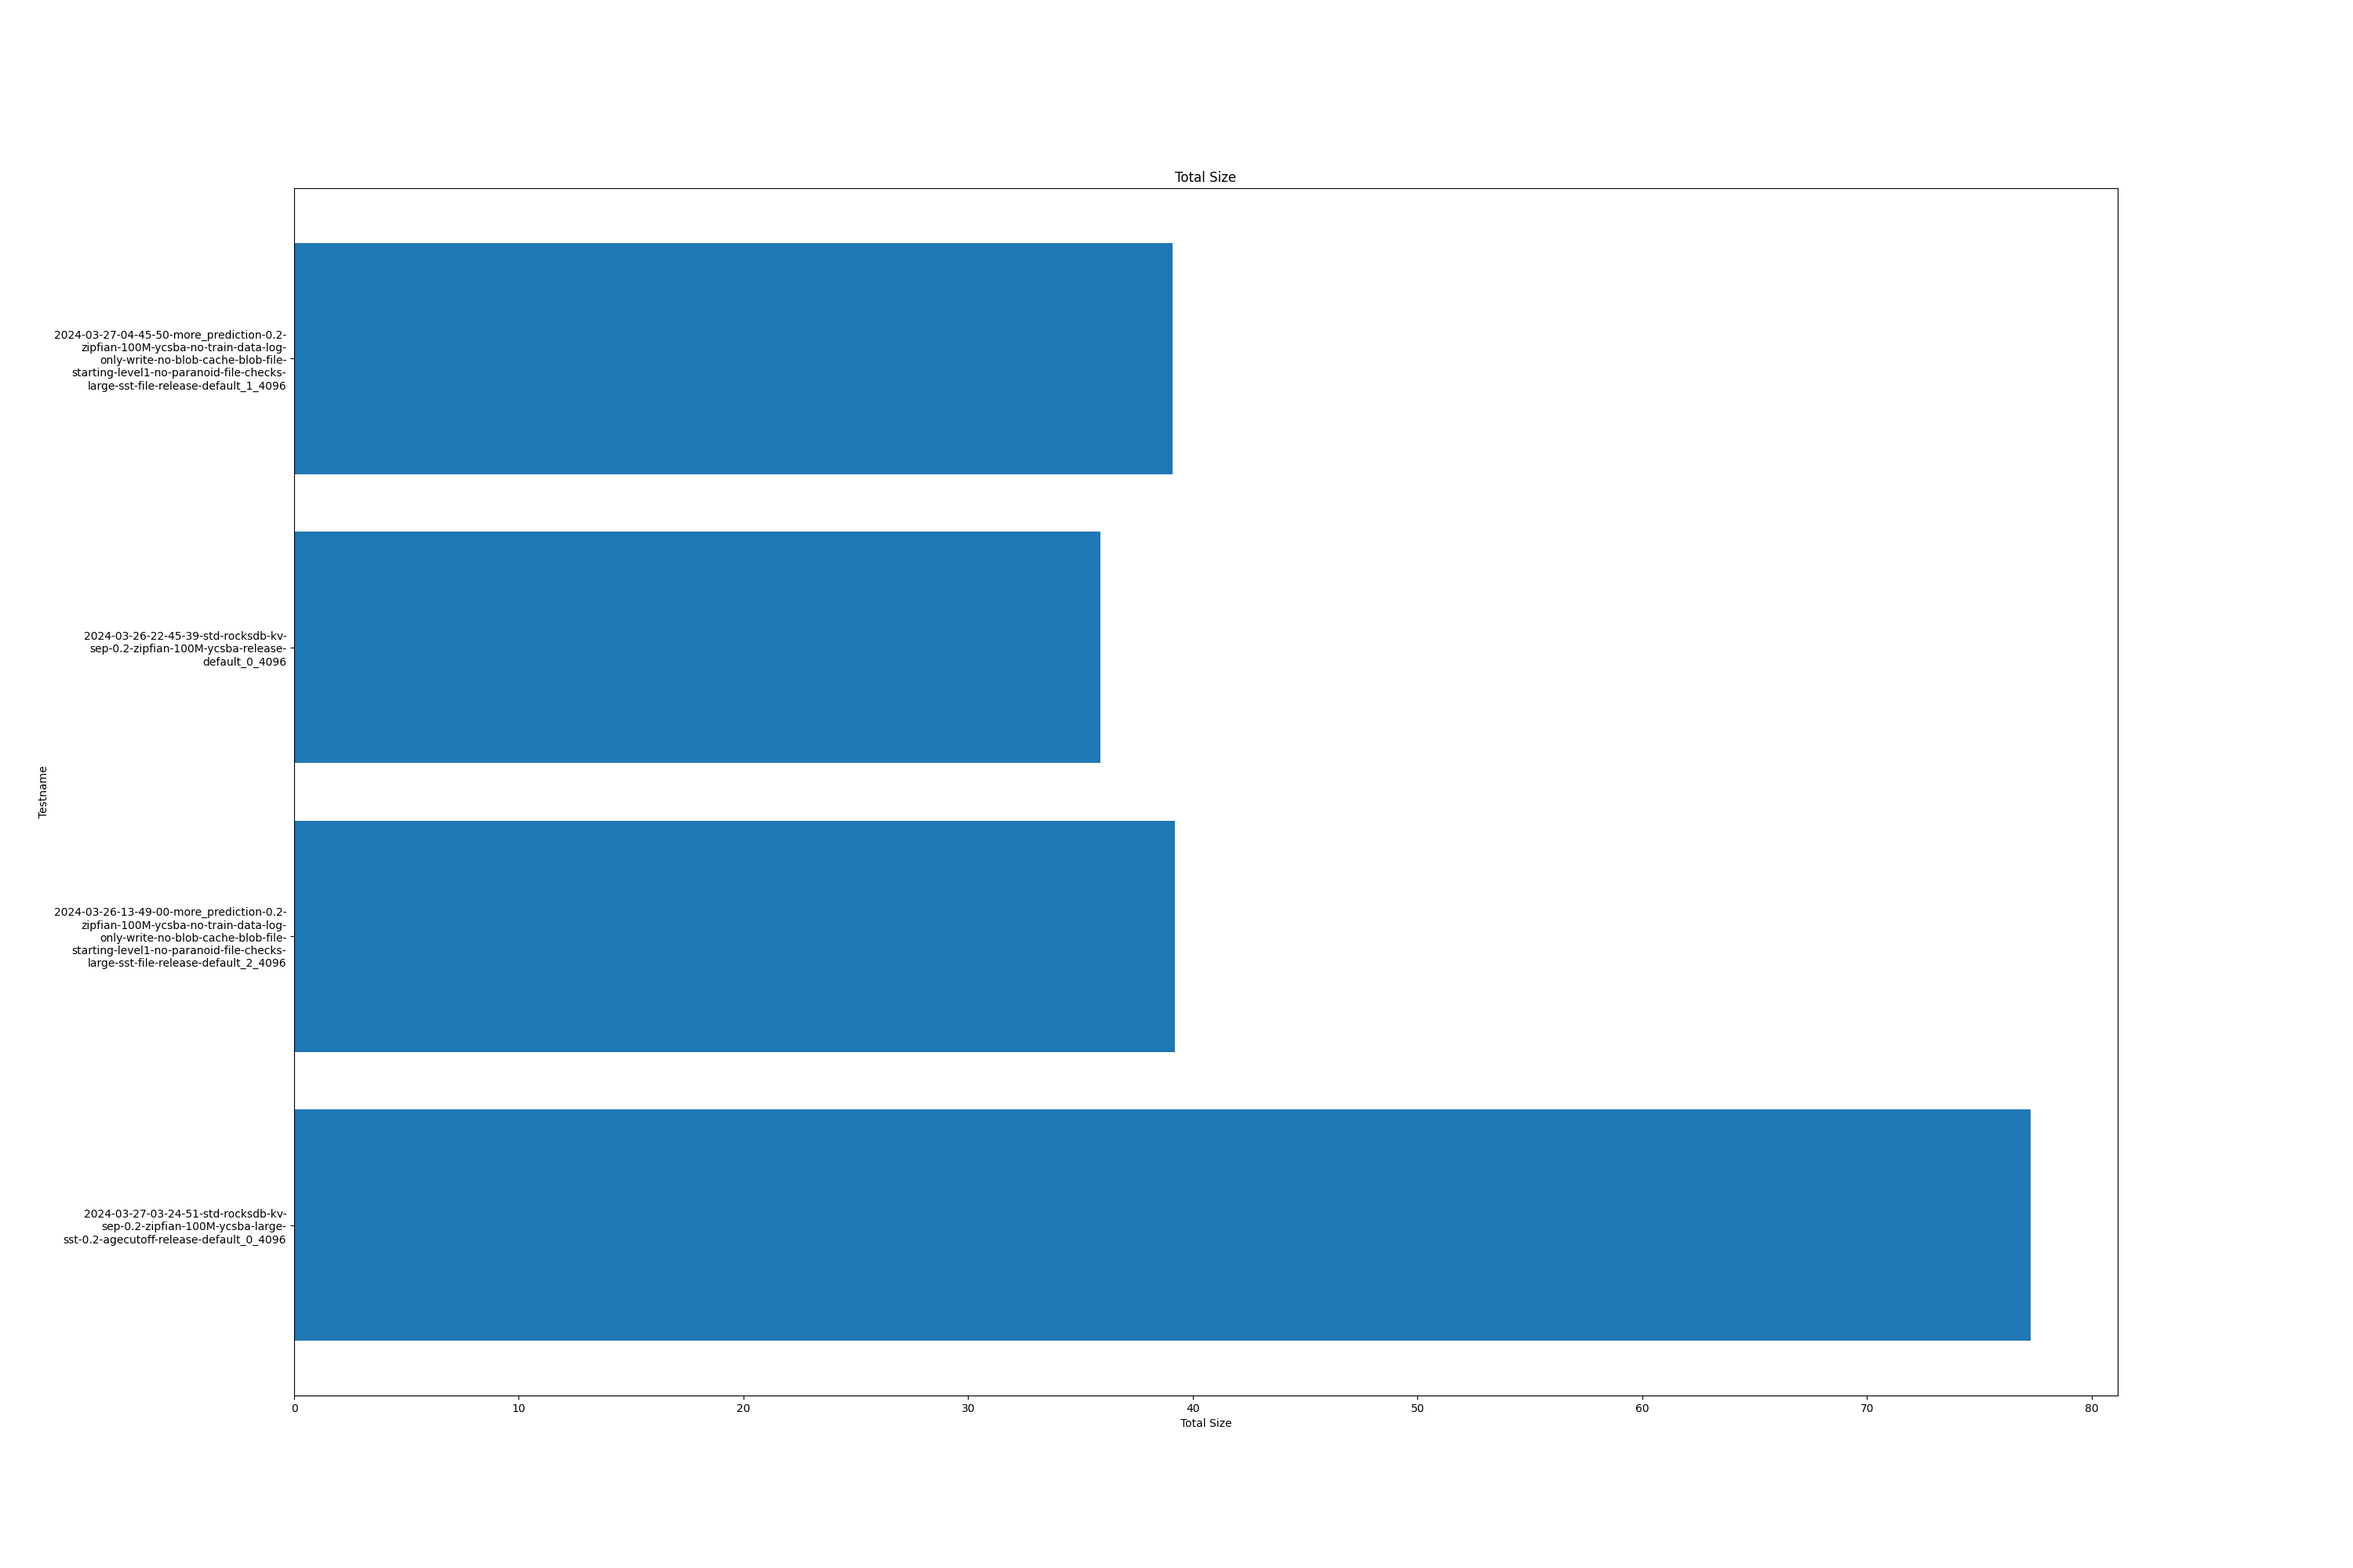
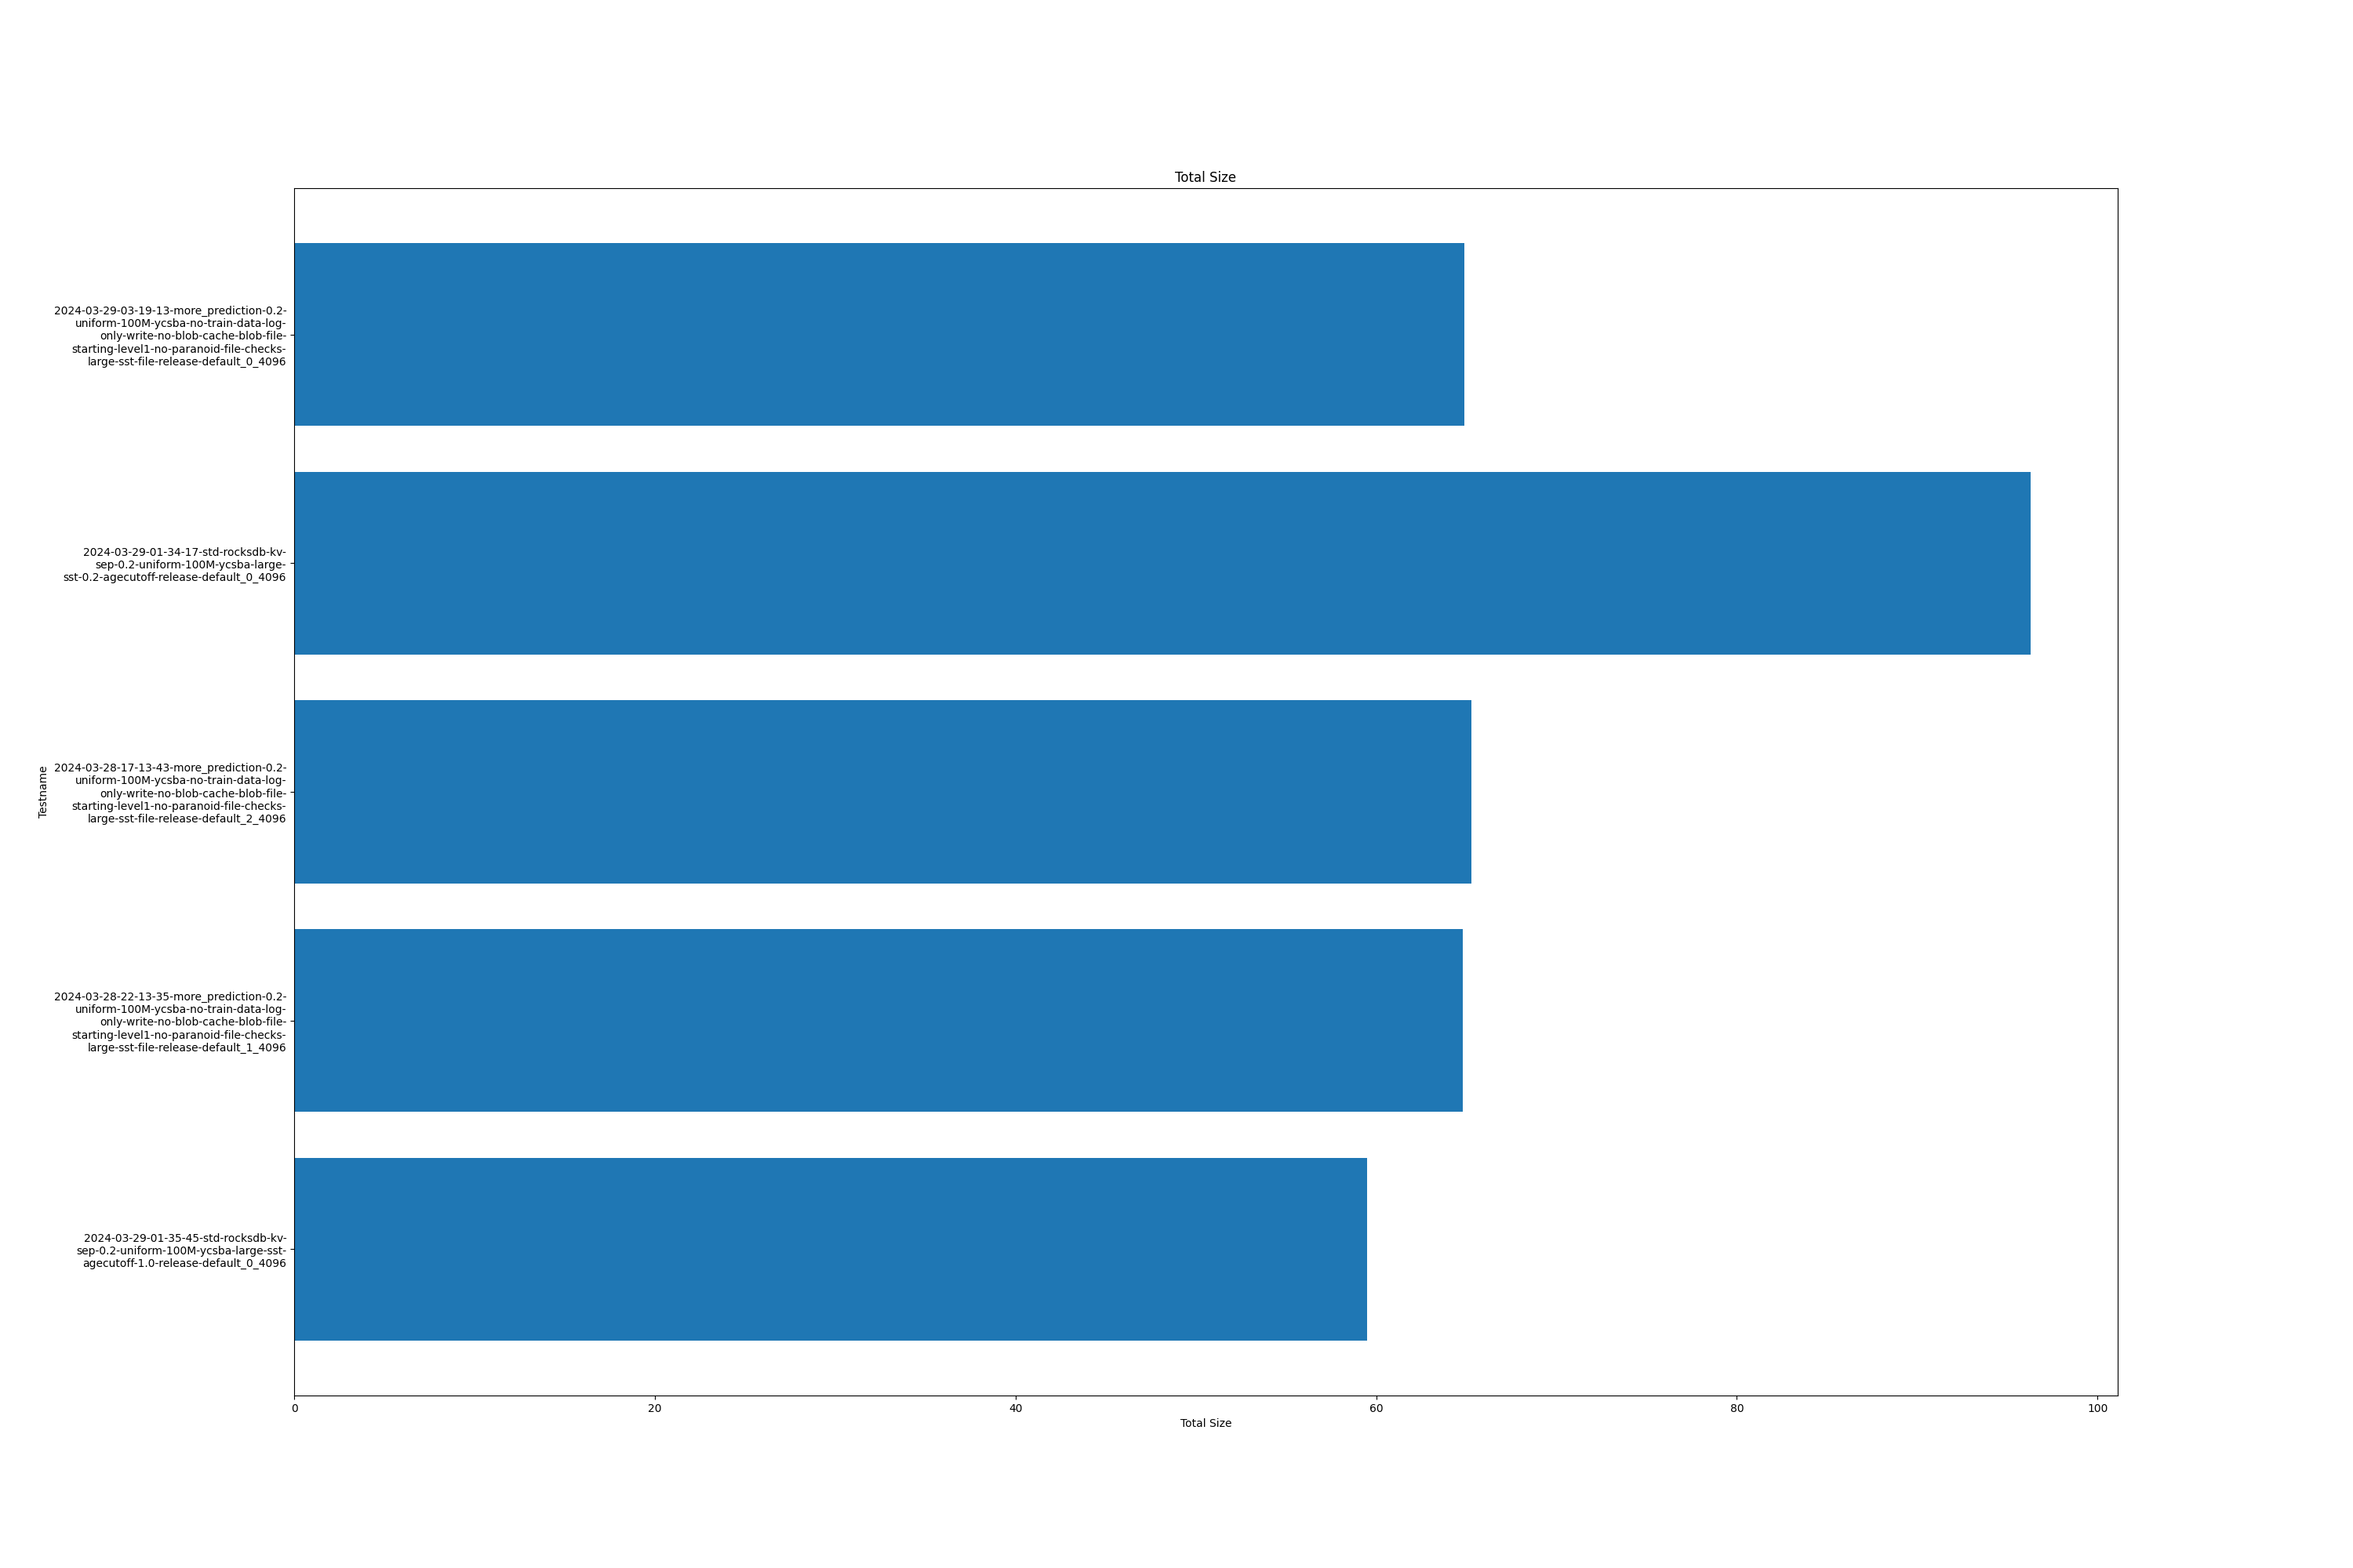
add script to get wamp, total size, ops_per_sec for std rocksdb and mlsm

diff --git a/db/training/training_data.h b/db/training/training_data.h
@@ -75,7 +75,7 @@ private:
   uint64_t res_long_count_ = 0;
 
 
-  const std::vector<float> label_weights_map_ = { 1.0, 4.0, 16.0, 64.0};
+  // const std::vector<float> label_weights_map_ = { 1.0, 4.0, 16.0, 64.0};
   // std::vector<double> result_;
 
 

diff --git a/mlsm_scripts/ycsb_a/plot_write_amp.py b/mlsm_scripts/ycsb_a/plot_write_amp.py
@@ -6,7 +6,7 @@ import os
 import csv
 
 # 1. Read the data from the file
-log_dir="./log_output_4096"
+log_dir="./log_output_4096_uniform"
 
 large_x = []
 large_y = []

diff --git a/mlsm_doc/todo.md b/mlsm_doc/todo.md
@@ -12279,6 +12279,116 @@ Large max bytes for level base
 
 
 
+[Todo]
+Experiments that are finished.
+
+more_prediction-0.2-zipfian-100M-ycsba-no-train-data-log-only-write-no-blob-cache-blob-file-starting-level1-no-paranoid-file-checks-large-sst-file-release-default_2_4096
+```
+Level    Files   Size     Score Read(GB)  Rn(GB) Rnp1(GB) Write(GB) Wnew(GB) Moved(GB) W-Amp Rd(MB/s) Wr(MB/s) Comp(sec) CompMergeCPU(sec) Comp(cnt) Avg(sec) KeyIn KeyDrop Rblob(GB) Wblob(GB)
+------------------------------------------------------------------------------------------------------------------------------------------------------------------------------------------------
+  L0      5/4   496.51 MB   0.2      0.0     0.0      0.0     203.3    203.3       0.0   1.0      0.0    528.6    393.92            289.23      2097    0.188       0      0       0.0       0.0
+  L1     10/10  797.03 MB   0.0    562.2   202.9    359.3     367.4      8.0       0.0   2.8     91.7     92.8   6278.55           6150.31       523   12.005   1224M    23M       0.0     201.8
+  L2     27/0    1.74 GB   0.3     14.5     6.4      8.1       8.9      0.8       0.9   1.4    268.3    165.9     55.18             53.97        75    0.736     47M    18M       0.0       0.0
+ Sum     42/14   3.01 GB   0.0    847.3   209.2    367.4     579.7    212.2       0.9   4.4    105.3    110.2   8237.09           7869.19      2695    3.056   1338M    82M     270.7     306.8
+ Int      0/0    0.00 KB   0.0      9.1     2.0      3.8       5.8      2.0       0.0   4.7     99.3     99.6     93.39             88.37        26    3.592     13M   934K       3.2       3.2
+
+** Compaction Stats [default] **
+Priority    Files   Size     Score Read(GB)  Rn(GB) Rnp1(GB) Write(GB) Wnew(GB) Moved(GB) W-Amp Rd(MB/s) Wr(MB/s) Comp(sec) CompMergeCPU(sec) Comp(cnt) Avg(sec) KeyIn KeyDrop Rblob(GB) Wblob(GB)
+---------------------------------------------------------------------------------------------------------------------------------------------------------------------------------------------------
+ Low      0/0    0.00 KB   0.0    847.3   209.2    367.4     376.3      8.9       0.0   0.0    110.6     89.2   7843.17           7579.96       598   13.116   1338M    82M     270.7     306.8
+High      0/0    0.00 KB   0.0      0.0     0.0      0.0     203.3    203.3       0.0   0.0      0.0    528.6    393.92            289.23      2097    0.188       0      0       0.0       0.0
+
+Blob file count: 1064, total size: 36.2 GB, garbage size: 0.0 GB, space amp: 1.0
+gc input blob: 66170259, gc output blobs: 25676077, gc dropped blobs: 40494182, gc invalid key ratio: 0.612
+
+```
+
+0.2-zipfian-100M-ycsba-starting-level1-weighted-dataset-large-sst-file-release-default_2_4096
+1 4 16 64 
+
+0.2-zipfian-100M-ycsba-starting-level1-balance-weighted-dataset-large-sst-file-release-default_2_4096
+
+0.2-zipfian-100M-ycsba-starting-level1-balance-weighted-dataset-little-bit-large-sst-release-default_2_409
+```
+
+Level    Files   Size     Score Read(GB)  Rn(GB) Rnp1(GB) Write(GB) Wnew(GB) Moved(GB) W-Amp Rd(MB/s) Wr(MB/s) Comp(sec) CompMergeCPU(sec) Comp(cnt) Avg(sec) KeyIn KeyDrop Rblob(GB) Wblob(GB)
+ Sum    463/4    3.13 GB   0.0    658.4   217.0    192.6     412.7    220.1       2.2   3.5     81.1     86.4   8311.40        7263.88      5720    1.453    644M    69M     248.8     288.5
+ Int      0/0    0.00 KB   0.0     42.0    13.0     12.1      25.0     12.9       0.0   3.6     74.5     75.5    577.82            504.63       292    1.979     26M  4236K      17.0      17.6
+
+** Compaction Stats [default] **
+Priority    Files   Size     Score Read(GB)  Rn(GB) Rnp1(GB) Write(GB) Wnew(GB) Moved(GB) W-Amp Rd(MB/s) Wr(MB/s) Comp(sec) CompMergeCPU(sec) Comp(cnt) Avg(sec) KeyIn KeyDrop Rblob(GB) Wblob(GB)
+---------------------------------------------------------------------------------------------------------------------------------------------------------------------------------------------------
+ Low      0/0    0.00 KB   0.0    658.4   217.0    192.6     212.9     20.4       0.0   0.0     91.3     69.5   7386.37           6975.18      3660    2.018    644M    69M     248.8     288.5
+High      0/0    0.00 KB   0.0      0.0     0.0      0.0     199.8    199.8       0.0   0.0      0.0    221.1    925.03            288.69      2060    0.449       0      0       0.0       0.0
+
+Blob file count: 2663, total size: 39.7 GB, garbage size: 0.0 GB, space amp: 1.0
+
+gc input blob: 62094471, gc output blobs: 22287993, gc dropped blobs: 39806478, gc invalid key ratio: 0.641
+
+```
+
+small 4096default 2 
+```
+** Compaction Stats [default] **
+Level    Files   Size     Score Read(GB)  Rn(GB) Rnp1(GB) Write(GB) Wnew(GB) Moved(GB) W-Amp Rd(MB/s) Wr(MB/s) Comp(sec) CompMergeCPU(sec) Comp(cnt) Avg(sec) KeyIn KeyDrop Rblob(GB) Wblob(GB)
+------------------------------------------------------------------------------------------------------------------------------------------------------------------------------------------------
+  L0      5/0   496.53 MB  79.4      0.0     0.0      0.0     187.8    187.8       0.0   1.0      0.0     67.4   2855.61            309.03      1937    1.474       0      0       0.0       0.0
+  L1    639/1   693.65 MB 110.8    329.5   187.3    142.2     152.0      9.8       0.0   1.8     47.1     48.3   7160.81           5394.65       681   10.515     72M    29K       0.0     185.9
+  L2    782/1   617.16 MB  12.3     18.5     6.1     12.4      16.3      3.9       3.0   2.7     58.3     51.4    324.94            109.14      7722    0.042     50M   699K       0.0       0.0
+  L3   1807/0    1.70 GB   4.4     17.7     6.3     11.4      13.7      2.3       0.1   2.2     43.8     33.9    414.01            133.57      6136    0.067     58M    11M       0.0       0.0
+  L4    880/0   644.04 MB   0.2      0.1     0.1      0.0       0.1      0.0       0.6   1.3     48.2     40.6      1.89              0.50        49    0.039    326K    52K       0.0       0.0
+ Sum   4113/2    4.10 GB   0.0    609.9   199.8    166.0     369.9    203.9       3.7   3.5     39.8     42.4  15678.12           8460.29     16525    0.949    241M    49M     244.1     279.9
+ Int      0/0    0.00 KB   0.0     10.8     3.0      2.9       5.8      2.8       0.0   4.0     33.9     33.0    327.67            153.67       225    1.456   3186K   996K       4.9       4.8
+
+** Compaction Stats [default] **
+Priority    Files   Size     Score Read(GB)  Rn(GB) Rnp1(GB) Write(GB) Wnew(GB) Moved(GB) W-Amp Rd(MB/s) Wr(MB/s) Comp(sec) CompMergeCPU(sec) Comp(cnt) Avg(sec) KeyIn KeyDrop Rblob(GB) Wblob(GB)
+---------------------------------------------------------------------------------------------------------------------------------------------------------------------------------------------------
+ Low      0/0    0.00 KB   0.0    609.9   199.8    166.0     182.1     16.1       0.0   0.0     48.7     36.9  12822.52           8151.26     14588    0.879    241M    49M     244.1     279.9
+High      0/0    0.00 KB   0.0      0.0     0.0      0.0     187.8    187.8       0.0   0.0      0.0     67.4   2855.61            309.03      1937    1.474       0      0       0.0       0.0
+
+Blob file count: 1287, total size: 35.8 GB, garbage size: 0.0 GB, space amp: 1.0
+
+Uptime(secs): 28319.4 total, 603.9 interval
+gc input blob: 60531484, gc output blobs: 23347466, gc dropped blobs: 37184018, gc invalid key ratio: 0.614
+```
+This small st file experiment didn't finish. So it does not count
+
+0.99-zipfian-100M-ycsba-starting-level1-balance-weight-dataset-large-sst-file-release-default_2_4096
+
+Looks like little bit large sst is better.
+It has samller write amplification.  wamp drops from 4.4 to 3.5 which is pretty good.
+I think I will go with this setting. Although there is no more blob files.  Number of blob files increase from 1000 to 2663 which is weird..
+
+However, little bit large sst also leads to large total size. 
+[Status: Ongoing]
+
+
+[Todo]
+Get uniform ops_per_sec, wamp and total size
+[Status: Done]
+
+
+[Todo]
+Get figure for 0.99 zipfian for value size 1024 and 4096
+[Status: Not tstarted]
+
+After finishing plotting figures of uniform workload.
+I think I need to continue paper writing and writing code to set up multi threading compaction
+during L0-L1 compaction.
+And I need to update code so that each garbage collection job 
+accumulated enough data before starts.
+This can help reduce number of blob files.
+
+
+
+
+
+
+
+
+
+
+
 
 
 
